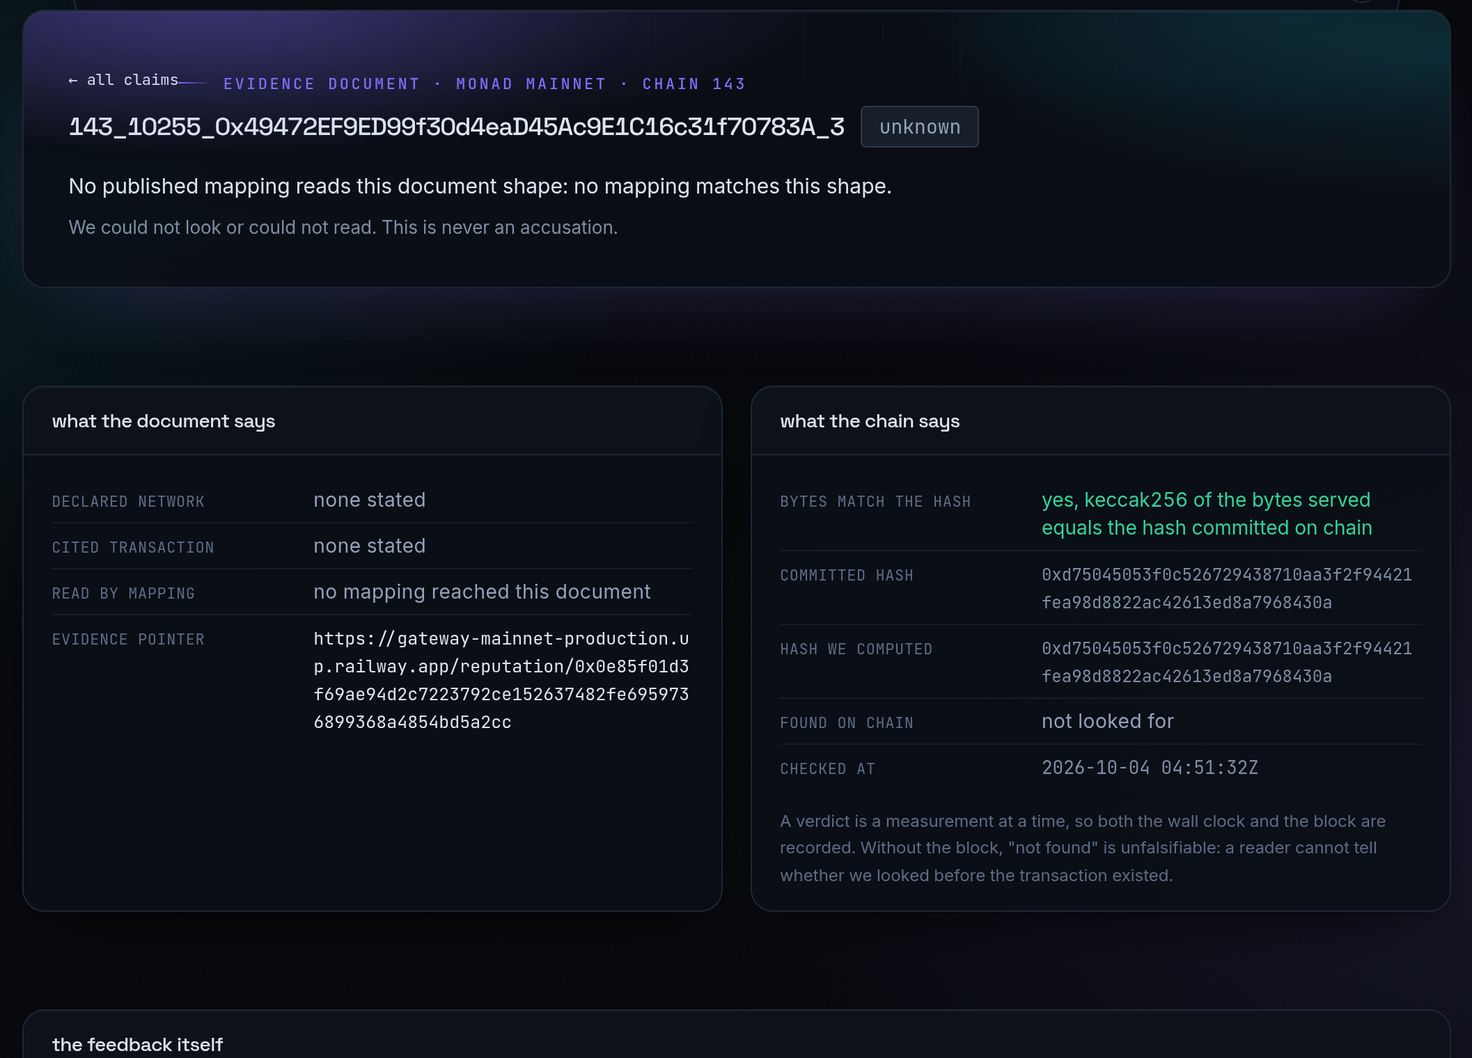
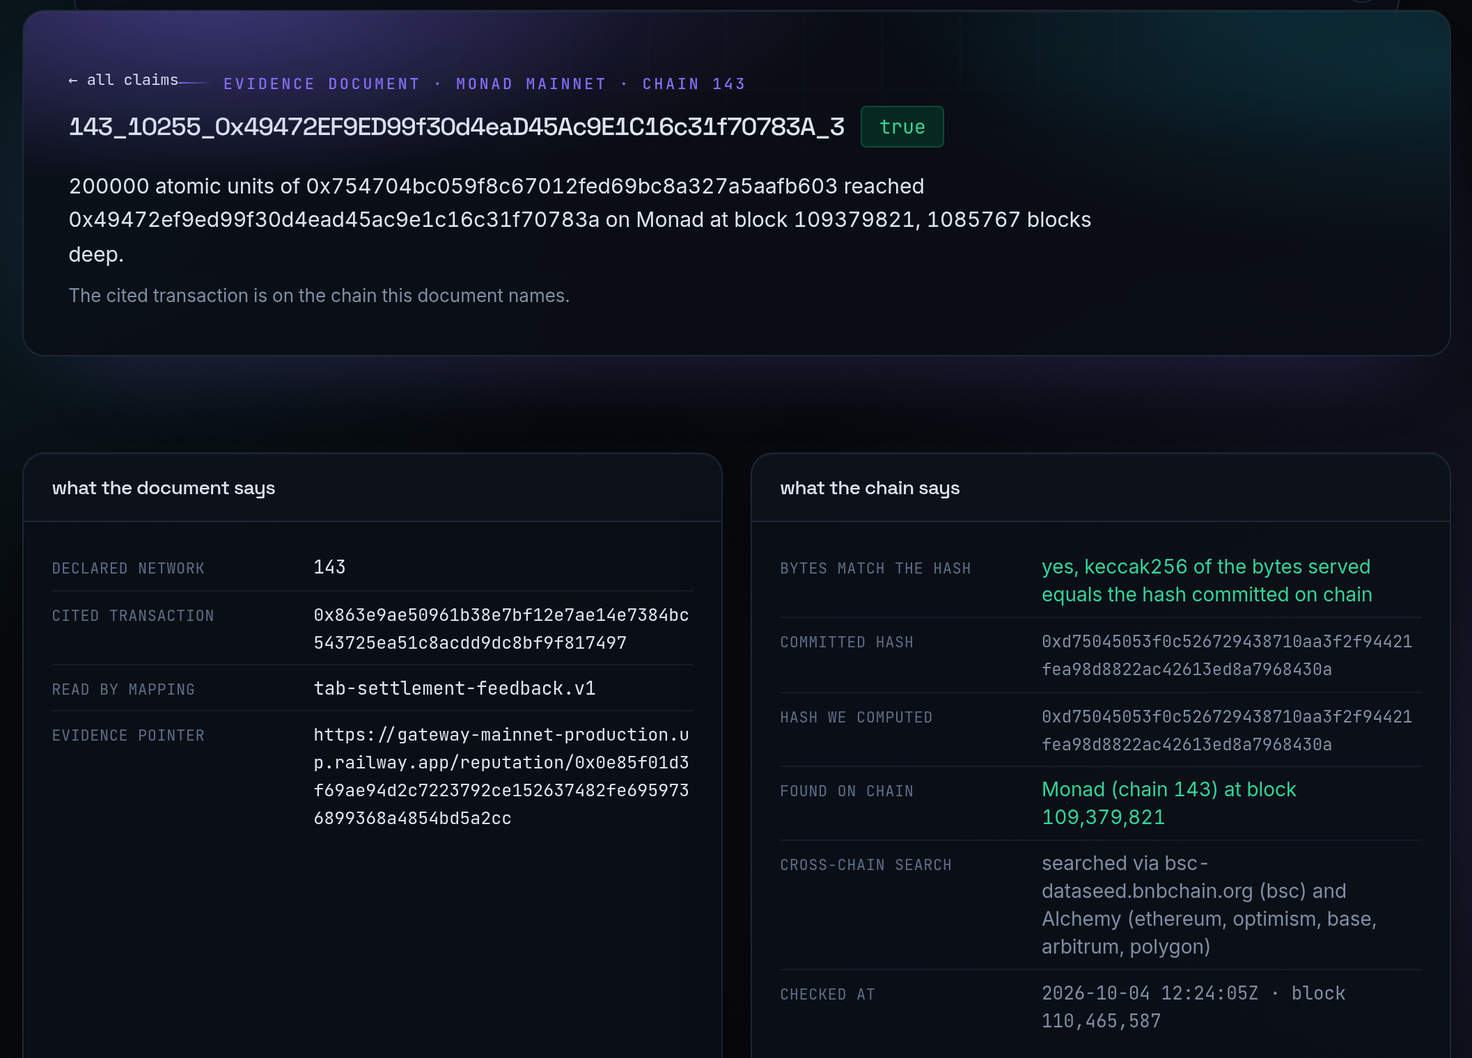
Record the three claims the Qwen mapping unlocked
The worker sources on the server were older than the site, so the sweep
was still running yesterday's parser. They are synced now. A targeted
re-check over the three tab-settlement documents appended a true verdict
for each: 40,000, 10,000 and 200,000 USDC units, each reaching the
settlement's collection address on Monad.

The live distribution is now 185 payment claims, 123 not on the chain they
name, 62 confirmed and 12 that could not be checked. No claim is left in a
shape no mapping reads. Every doc that stated the old figures says the new
ones. The blog has its after screenshot.

The secret scan flagged the induction record, which stores the public
Monad USDC address in lowercase. The allowlist matched it only in mixed
case, so that entry is now case-insensitive. It is still one exact value.

diff --git a/app/blog/claim-truth/page.tsx b/app/blog/claim-truth/page.tsx
@@ -47,7 +47,7 @@ export default function ClaimTruth() {
         <p>
           We ran the ladder over every Monad feedback that carries an evidence pointer, 1,292 of the 9,288
           feedbacks in the registry. Most do not assert a payment at all: they are game ratings and plain-text
-          comments, so there is nothing to be right or wrong about. Of the 182 that do assert one, two thirds
+          comments, so there is nothing to be right or wrong about. Of the 185 that do assert one, two thirds
           cite a transaction that is not on the chain they name.
         </p>
       </Prose>
@@ -58,7 +58,7 @@ export default function ClaimTruth() {
         width={1153}
         height={570}
         href="/claims"
-        alt="The claims page: 123 not on the chain they name, 59 on the chain they name, 15 could not check, 1,095 assert no payment"
+        alt="The claims page: 123 not on the chain they name, 62 on the chain they name, 12 could not check, 1,095 assert no payment"
         caption={
           <>
             The live <Link href="/claims">claims page</Link> on 2026-10-04. Red is a payment claim whose
@@ -134,10 +134,10 @@ export default function ClaimTruth() {
         rows={[
           { k: "agents in the registry", v: "10,278", src: "/status, the registry's own counter slot" },
           { k: "feedbacks", v: "9,288, of which 1,292 carry an evidence pointer", src: "/status" },
-          { k: "assert a payment", v: "182", src: "feed.json data.summary.paymentClaims" },
-          { k: "not on the chain they name", v: "123, just over two thirds of 182", src: "feed.json data.summary.doNotResolve" },
-          { k: "confirmed", v: "59", src: "feed.json data.summary.resolve" },
-          { k: "could not check", v: "15, never counted as false", src: "feed.json data.summary.couldNotCheck" },
+          { k: "assert a payment", v: "185", src: "feed.json data.summary.paymentClaims" },
+          { k: "not on the chain they name", v: "123, two thirds of 185", src: "feed.json data.summary.doNotResolve" },
+          { k: "confirmed", v: "62", src: "feed.json data.summary.resolve" },
+          { k: "could not check", v: "12, never counted as false", src: "feed.json data.summary.couldNotCheck" },
         ]}
       />
 

diff --git a/app/blog/qwen/page.tsx b/app/blog/qwen/page.tsx
@@ -135,7 +135,7 @@ Transfer 0x754704bc…b603 (USDC)
         height={760}
         href="/claim/143_10255_0x49472EF9ED99f30d4eaD45Ac9E1C16c31f70783A_3"
         alt="The same claim after the new mapping shipped"
-        caption="After. The same claim once the mapping shipped and the scheduled re-check reached it."
+        caption="After. The same claim once the mapping shipped and we re-ran the ladder over the three documents. The new verdict is appended. The old unknown row stays in its history."
       />
 
       <Prose>

diff --git a/docs/16-METHOD.md b/docs/16-METHOD.md
@@ -147,7 +147,7 @@ is a rung below `declared` and therefore never appears in any ratio about eviden
 
 ## 3. The measurement
 
-**Published as: 182 payment claims, 59 resolve, 123 do not, <!-- n:noClaim -->1,095<!-- /n --> assert no payment, 15 unknown.**
+**Published as: 185 payment claims, 62 resolve, 123 do not, <!-- n:noClaim -->1,095<!-- /n --> assert no payment, 12 unknown.**
 
 `MEASUREMENT_SQL`, against the `fovea.verdict_latest` view:
 
@@ -166,23 +166,21 @@ FROM fovea.verdict_latest;
 ```
  verdicts | payment_claims | resolve | do_not_resolve | no_claim | unknown_unreachable | unknown_bytes_moved | unknown_unparsed
 ----------+----------------+---------+----------------+----------+---------------------+---------------------+------------------
-     1292 |            182 |      59 |            123 |     1095 |                   2 |                  10 |                3
+          1292 |            185 |      62 |            123 |     1095 |                   2 |                  10 |                0
 ```
 
-Check the arithmetic yourself: 182 + 1095 + 2 + 10 + 3 = 1292, which is every document carrying a
+Check the arithmetic yourself: 185 + 1095 + 2 + 10 + 0 = 1292, which is every document carrying a
 URI from section 2. Nothing is dropped between the two.
 
-**Read the denominator correctly.** The finding is about **182 documents that assert a payment**. It
+**Read the denominator correctly.** The finding is about **185 documents that assert a payment**. It
 is not about <!-- n:withPointer -->1,292<!-- /n --> documents, not about <!-- n:feedbacks -->9,288<!-- /n --> feedbacks and not about <!-- n:agents -->10,278<!-- /n --> agents. Any wider
 phrasing is an overclaim and it is one I made myself before the full corpus was measured. The
 correction is in [`18-BUGS-FIXED.md`](18-BUGS-FIXED.md).
 
-**The 15 unknowns are split by how far the ladder got, because the three causes are different.** Ten
+**The 12 unknowns are split by how far the ladder got, because the causes are different.** Ten
 stopped at `resolvable`: the URL still answers, the bytes no longer match the hash committed on
 chain, so reading a claim out of them would attribute it to an author who committed to something
-else. Two stopped at `declared`: `ipfs://` documents no gateway would serve. Three stopped at
-`intact`: the bytes match the on-chain hash but no published mapping reads the shape yet, so this is
-a coverage gap the atlas owns rather than hides.
+else. Two stopped at `declared`: `ipfs://` documents no gateway would serve. None stop at `intact` today. Three did until 2026-10-04: their bytes matched the on-chain hash but no published mapping read the shape. A Qwen-proposed mapping for that shape was reviewed and shipped. All three now read `true`.
 
 **`unknown` is never counted as `false` and never rendered as `0`.** Collapsing them would let
 somebody else's outage publish as our accusation, at scale, with their name attached.
@@ -191,7 +189,7 @@ somebody else's outage publish as our accusation, at scale, with their name atta
 
 ## 4. Which chain the claims name
 
-**Published as: every one of the 182 claims names Monad.**
+**Published as: every one of the 185 claims names Monad.**
 
 ```sql
 SELECT coalesce(declared_network, '(none stated)') AS network,
@@ -244,7 +242,7 @@ FROM fovea.verdict_latest GROUP BY 1, 2 ORDER BY 3 DESC;
  conversation-score.v1            | noClaim |     3
 ```
 
-**1,026 of the documents are game ELO records, every one naming the game `melee`.** That single row is why the denominator is 182 and
+**1,026 of the documents are game ELO records, every one naming the game `melee`.** That single row is why the denominator is 185 and
 not <!-- n:withPointer -->1,292<!-- /n --> and why sampling the head of a list gave the opposite impression: ordering by block
 descending showed mostly HTTP documents, while the population is 85% `data:` URIs that decode
 locally and assert no payment at all.
@@ -498,7 +496,7 @@ part of reading the site correctly.
 |---|---|---|
 | agents, distinct records | **grows** | the registry is open. Ours is one of the increments |
 | feedbacks, feedbacks with a URI | **grows** | anyone can write one |
-| the 182 / 59 / 123 split | **can move either way** | a repaired document flips `false` to `true`. That is the point |
+| the 185 / 62 / 123 split | **can move either way** | a repaired document flips `false` to `true`. That is the point |
 | the eight probe states | **moves on re-probe** | a host that was down can answer next week |
 
 **Verdicts are append only. There is no update path anywhere in the code.** A re-check writes a new

diff --git a/docs/02-THESIS.md b/docs/02-THESIS.md
@@ -1,7 +1,7 @@
 # 2. Hash integrity is not claim truth
 
 Every tool that reads an ERC-8004 evidence document checks that the bytes it served match the hash
-committed on chain. All 182 payment claims on Monad pass that check. 123 of them cite a transaction
+committed on chain. All 185 payment claims on Monad pass that check. 123 of them cite a transaction
 that is not on the chain the document names.
 
 Those two sentences do not contradict each other. They measure different things. This document is
@@ -62,7 +62,7 @@ does not go and look. Looking is one RPC call:
 cast receipt <txHash> --rpc-url https://rpc.monad.xyz
 ```
 
-For 123 of the 182 payment claims on Monad, that call comes back with nothing. No receipt. The
+For 123 of the 185 payment claims on Monad, that call comes back with nothing. No receipt. The
 document is hash-perfect and the event it describes is not on the chain it names.
 
 That is the whole gap. Integrity answers "are these the committed bytes". Nothing in the standard,
@@ -110,10 +110,10 @@ curl -sS 'https://kanmani.xyz/api/claims?outcome=false&limit=1' | jq '.data.tota
 # outcome=true -> 59, outcome=noClaim -> 1095, outcome=unknown -> 15
 ```
 
-**The denominator for the headline is 182, not <!-- n:feedbacks -->9,288<!-- /n --> and not <!-- n:withPointer -->1,292<!-- /n -->.** 182 is `true` plus `false`: the
-documents that assert a payment and that we read all the way to a chain. 123 of 182 is 68%. 123 of
+**The denominator for the headline is 185, not <!-- n:feedbacks -->9,288<!-- /n --> and not <!-- n:withPointer -->1,292<!-- /n -->.** 185 is `true` plus `false`: the
+documents that assert a payment and that we read all the way to a chain. 123 of 185 is 66%. 123 of
 <!-- n:feedbacks -->9,288<!-- /n --> would be just over 1%. Quoting it that way would be arithmetic dressed up as modesty. Neither
-framing is honest on its own, which is why the 182 and the <!-- n:withPointer -->1,292<!-- /n --> sit next to each other on the front
+framing is honest on its own, which is why the 185 and the <!-- n:withPointer -->1,292<!-- /n --> sit next to each other on the front
 page.
 
 <!-- n:noClaim -->1,095<!-- /n --> documents assert no payment because most ERC-8004 feedback on Monad is not about payment.
@@ -141,7 +141,7 @@ resolves a declared chain against a covered list of seven rather than assuming M
 free to be about one chain while citing a transaction on another. Preferring the outer field would
 quietly rewrite what the author said.
 
-Then we ran it. Every single one of the 182 payment claims names `monad`. Not one names anything
+Then we ran it. Every single one of the 185 payment claims names Monad. Not one names anything
 else.
 
 ```sql
@@ -236,11 +236,8 @@ Here are the reason strings, verbatim from the source. Nothing else ever reaches
 Every one describes what was observed. None describes what anyone meant. The difference between an
 observation and an accusation is the reason this measurement can be published at all.
 
-The same restraint covers the 15 unknowns. 10 serve bytes that no longer match their own on-chain
-hash, which happens when an author edits a document for perfectly good reasons. 3 are a document
-shape no published mapping reads. 2 would not answer at all, HTTP 429. We do not know whether any
-of those 15 assert a payment, because the ladder stopped before it found out, so none of them is
-counted in the 182.
+The same restraint covers the 12 unknowns. 10 serve bytes that no longer match their own on-chain
+hash, which happens when an author edits a document for perfectly good reasons. 2 would not answer at all, HTTP 429. We do not know whether any of those 12 assert a payment, because the ladder stopped before it found out, so none of them is counted in the 185. There used to be 3 more, in a document shape no published mapping read. On 2026-10-04 Qwen 3.8 Max proposed a mapping for that shape, it was reviewed and shipped. All 3 checked out as `true`.
 
 A verdict is a measurement at a time, never a permanent label. Every row carries `checkedAt` plus
 the chain head it was checked against. The store is append only, so a re-check writes a new row

diff --git a/README.md b/README.md
@@ -26,8 +26,7 @@
 
 When you hire an agent, the money sits in escrow until the work lands. The settlement itself emits
 the receipt, so the evidence cannot disagree with the payment. We read **all <!-- n:agents -->10,278<!-- /n --> agents** in
-Monad's ERC-8004 registry and checked every payment claim against the chain it names: 123 of the 182
-claims name a transaction that is not there. The track record this produces is correct by
+Monad's ERC-8004 registry and checked every payment claim against the chain it names: 123 of the 185 claims name a transaction that is not there. The track record this produces is correct by
 construction and the agent can then stake its own money on it.
 
 Why now: a trust layer is a loop, measure a claim, judge it, then price or slash against that
@@ -81,7 +80,7 @@ No wallet and no key for the first four.
 
 Monad's ERC-8004 registry holds **<!-- n:agents -->10,278<!-- /n --> agents** behind <!-- n:documents -->2,055<!-- /n --> distinct registration documents. We
 read every one of them and checked every payment claim against the chain it names. Of <!-- n:feedbacks -->9,288<!-- /n -->
-feedbacks, <!-- n:withPointer -->1,292<!-- /n --> carry an evidence pointer at all. 182 of those make a payment claim and 123 of them
+feedbacks, <!-- n:withPointer -->1,292<!-- /n --> carry an evidence pointer at all. 185 of those make a payment claim and 123 of them
 are wrong about where the money went. That is 123 out of 9,288, just over 1%, so the story here is
 rot rather than mass fraud.
 
@@ -110,7 +109,7 @@ verdict store on every load, so it moves as the hourly sweep checks new document
 | agents in the registry | <!-- n:agents -->10,278<!-- /n --> |
 | distinct registration documents behind them | <!-- n:documents -->2,055<!-- /n --> |
 | feedbacks, of which <!-- n:withPointer -->1,292<!-- /n --> carry an evidence pointer | <!-- n:feedbacks -->9,288<!-- /n --> |
-| payment claims checked against a chain | 182 |
+| payment claims checked against a chain | 185 |
 | claims where the cited transaction is really there | 59 |
 | claims where it is not | 123 |
 | **of those 123, real transactions on a different chain** | **113** |
@@ -181,7 +180,7 @@ Everything else in this repository is built around that one rule.
 | surface | status | what that means |
 |---|---|---|
 | registry reads: <!-- n:agents -->10,278<!-- /n --> agents, <!-- n:documents -->2,055<!-- /n --> documents, <!-- n:feedbacks -->9,288<!-- /n --> feedbacks | **real** | indexed from all three ERC-8004 registries on Monad and BSC |
-| claim verdicts: 182 checked, 123 false, 59 true, 15 unknown | **real** | each one read off the chain the document names, recorded at a block |
+| claim verdicts: 185 checked, 123 false, 62 true, 12 unknown | **real** | each one read off the chain the document names, recorded at a block |
 | Aqueous escrow on mainnet | **real** | USDC held and settled, the receipt emitted by the settlement itself |
 | Sclera bonds on mainnet | **real** | three posted, one already through its whole life: posted, held, matured, returned |
 | cross-chain funding | **real** | 0.12 USDT on BSC landed 115,558 USDC units in Aqueous on 2026-09-28, destination tx [`0x738af85c…b558`](https://monadexplorer.com/tx/0x738af85c2f6717da15f1cee3a447b05d0fc7b3c924b8027678afdde0a440b558) |

diff --git a/docs/03-POPULATION.md b/docs/03-POPULATION.md
@@ -271,21 +271,18 @@ declaration order, because a verdict that depends on array position is not a ver
 | `true` | 59 | the cited transaction is on the chain the document names |
 | `unknown` | 15 | we could not look or could not read what we fetched |
 
-The 1,095 `noClaim` rows are exactly the `data:` population: 1,026 plus 66 plus 3. The 15 unknowns
-split into 10 serving bytes that no longer match their own on-chain hash, 3 in a shape no published
-mapping reads plus 2 that would not answer (HTTP 429). The 10 hash mismatches are the
+The 1,095 `noClaim` rows are exactly the `data:` population: 1,026 plus 66 plus 3. The 12 unknowns split into 10 serving bytes that no longer match their own on-chain hash plus 2 that would not answer (HTTP 429). Three more were in a shape no published mapping read until 2026-10-04, when a Qwen-proposed mapping was reviewed and shipped. All three now read `true`. The 10 hash mismatches are the
 `grokandmon.com` documents, which an earlier pass read as agent cards before their bytes moved.
 
-**182 of <!-- n:feedbacks -->9,288<!-- /n --> feedbacks assert a payment.** That is 1.96%. Every one comes from a single publisher.
-Every one names `monad`.
+**185 of <!-- n:feedbacks -->9,288<!-- /n --> feedbacks assert a payment.** That is 1.99%. 182 come from one publisher, execution.market. The other 3 are tab-settlement receipts from a settlement gateway. Every one names Monad.
 
 So the honest description of this registry is not a commerce record with some noise in it. **It is a
-game leaderboard with 182 payment claims attached.** 1,026 melee ratings against 182 payment claims
+game leaderboard with 185 payment claims attached.** 1,026 melee ratings against 185 payment claims
 is roughly 6 to 1. The registry is being used heavily for something the payment-verification reading
 of ERC-8004 does not describe.
 
 That changed what this project says. It was built expecting documents citing one chain while the
-payment sat on another. Not what is happening: all 182 name the same chain, 123 cite a transaction
+payment sat on another. Not what is happening: all 185 name the same chain, 123 cite a transaction
 not on it. `noClaim` is first-class for the same reason. A document that never asserted a payment cannot
 be wrong about one, so counting it as unparsed would inflate our own coverage gap by <!-- n:noClaim -->1,095<!-- /n --> rows.
 

diff --git a/docs/14-GAPS.md b/docs/14-GAPS.md
@@ -499,9 +499,7 @@ its bytes, content addressing can. It is never written as an accusation.
 **Two `ipfs://` documents no gateway would serve.** The gateway answers HTTP 429. A working gateway
 would close these two and nothing else, so it is small and it is still open.
 
-**Three documents whose shape no published mapping reads.** The ladder stops at `intact` because there
-is no mapping for that record shape, so it will not guess a claim out of a document it cannot parse.
-Closing these means writing a mapping, which is the review queue `/method` publishes.
+**Closed 2026-10-04: three documents whose shape no published mapping read.** The ladder stopped at `intact` because no mapping read the record shape. It will not guess a claim out of a document it cannot parse. Qwen 3.8 Max proposed a mapping, one field changed in review and it shipped. All three now read `true`. See [27-ATLAS-INDUCTION](27-ATLAS-INDUCTION.md).
 
 None of the three groups is counted as `false`. A failure to look is not evidence that a payment did
 not happen.
@@ -546,7 +544,7 @@ real time to understand.
   `validationRequest` reverts `Not authorized` for anyone who is not the agent's owner, so nobody can
   publish a verdict about somebody else unilaterally. The constraint explains the empty registry better
   than any theory about uptake and learning it cost a reverted transaction.
-* **Every one of the 182 claims names Monad.** The build expected documents citing one chain while the
+* **Every one of the 185 claims names Monad.** The build expected documents citing one chain while the
   payment sat elsewhere, which is why `locate` reads seven chains. That is not what happens. The
   multi-chain reader stays anyway, because a "not found" means nothing without the published list of
   places it was looked for.

diff --git a/docs/04-VERIFICATION-LADDER.md b/docs/04-VERIFICATION-LADDER.md
@@ -160,7 +160,7 @@ psql "$FOVEA_DATABASE_URL" -c \
 | `true` | `a successful transaction with this hash is on Monad at block <n>` | 34 |
 | `true` | `<n> atomic units of <addr> reached <addr> on Monad at block <n>, <n> blocks deep` | 25 |
 | `unknown` | `the bytes served now do not match the hash committed on chain, so this document cannot be checked against what its author committed to` | 10 |
-| `unknown` | `no published mapping reads this document shape: no mapping matches this shape` | 3 |
+| `unknown` | `no published mapping reads this document shape: no mapping matches this shape` | 0, was 3 until a mapping shipped on 2026-10-04 |
 | `noClaim` | `conversation rating, no payment asserted, so there is no payment claim to check` | 3 |
 | `unknown` | `evidence document could not be read: HTTP <n>` | 2 |
 
@@ -463,7 +463,7 @@ Two consequences follow and both are load-bearing:
    is append only for the same reason: a re-check writes a new row, so a fixed document shows as
    `false -> true` with both timestamps.
 
-On the live corpus, all seven chains are configured. Every one of the 182 payment claims names
+On the live corpus, all seven chains are configured. Every one of the 185 payment claims names
 `monad`, so the other six carried no traffic in this sweep. They are in the table anyway, because the
 table is what a `false` is relative to.
 

diff --git a/docs/AS-BUILT.md b/docs/AS-BUILT.md
@@ -680,10 +680,10 @@ flip is scheduled for the day the submission window opens, 2026-10-02.
 The most useful entries, because each is a place the build was wrong and the data corrected it.
 
 **The thesis got narrower and more accurate.** This was designed expecting documents citing one
-chain while the payment sat on another. Every one of the 182 payment claims names `monad`. The
+chain while the payment sat on another. Every one of the 185 payment claims names Monad. The
 failure is simpler than the one designed for, so the site says the simpler thing.
 
-**The denominator moved from <!-- n:feedbacks -->9,288<!-- /n --> to 182.** Most ERC-8004 feedback on Monad is not a payment claim.
+**The denominator moved from <!-- n:feedbacks -->9,288<!-- /n --> to 185.** Most ERC-8004 feedback on Monad is not a payment claim.
 1,026 documents are chess ELO records. Sampling recent-first had given the opposite impression,
 because the head of a list is never a random sample.
 

diff --git a/docs/34-EVIDENCE-CHECK.md b/docs/34-EVIDENCE-CHECK.md
@@ -17,7 +17,7 @@ on [the MCP server](33-MCP.md), so the browser studio, a shell script and an age
 A registration lands on chain once. A bad `agentURI` is a second transaction to repoint and an
 `https://` document that later goes dead takes the agent's whole identity with it. An evidence
 document is worse: it is hashed and committed, so a mislabelled `network` field is permanent and reads
-as a false payment claim forever. 123 of the 182 payment claims on Monad cite a transaction that is
+as a false payment claim forever. 123 of the 185 payment claims on Monad cite a transaction that is
 not on the chain the document names. A free check before publishing is the cheapest place to catch
 that.
 

diff --git a/docs/25-PROOF.md b/docs/25-PROOF.md
@@ -80,7 +80,7 @@ Kanmani proof run
   PASS  the index answers and holds 1292 checkable claims
         checkedAtBlock 110160000
 2. Fovea  ·  verify the claim  ·  expected LIVE
-  PASS  verdicts exist: 182 payment claims, 59 resolve, 123 do not
+  PASS  verdicts exist: 185 payment claims, 62 resolve, 123 do not
         a false verdict means the chain was read and the transaction was absent, never that we failed to look
 3. Aqueous  ·  escrow the job  ·  expected LIVE
   PASS  escrow deployed, 10901 bytes at 0xd75f7786D0DD42c8F161Bd78E87D37001044Fc32

diff --git a/docs/10-API.md b/docs/10-API.md
@@ -283,7 +283,7 @@ curl -sS 'https://kanmani.xyz/feed.json?limit=5'
 ```json
 {
   "summary": {
-    "paymentClaims": 182, "resolve": 59, "doNotResolve": 123, "assertNoPayment": 1095,
+    "paymentClaims": 185, "resolve": 62, "doNotResolve": 123, "assertNoPayment": 1095,
     "couldNotCheck": { "total": 15, "documentWouldNotAnswer": 2,
                        "bytesNoLongerMatchTheirCommitment": 10, "noMappingReadTheShape": 3 },
     "claimsWithAUriAndNoVerdict": 0
